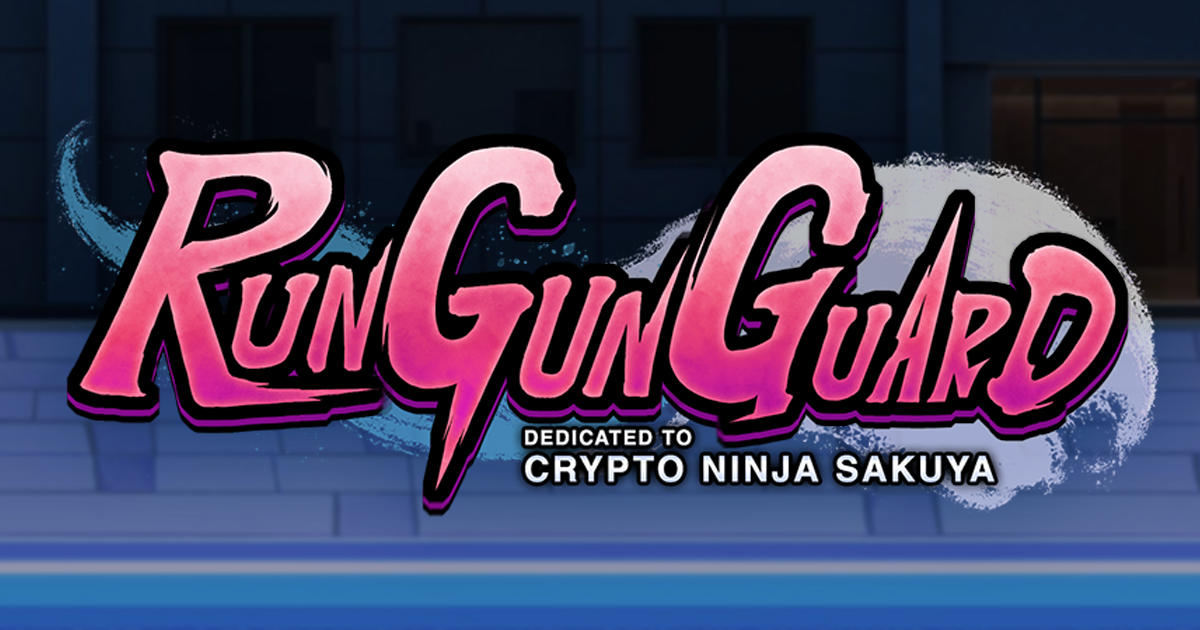
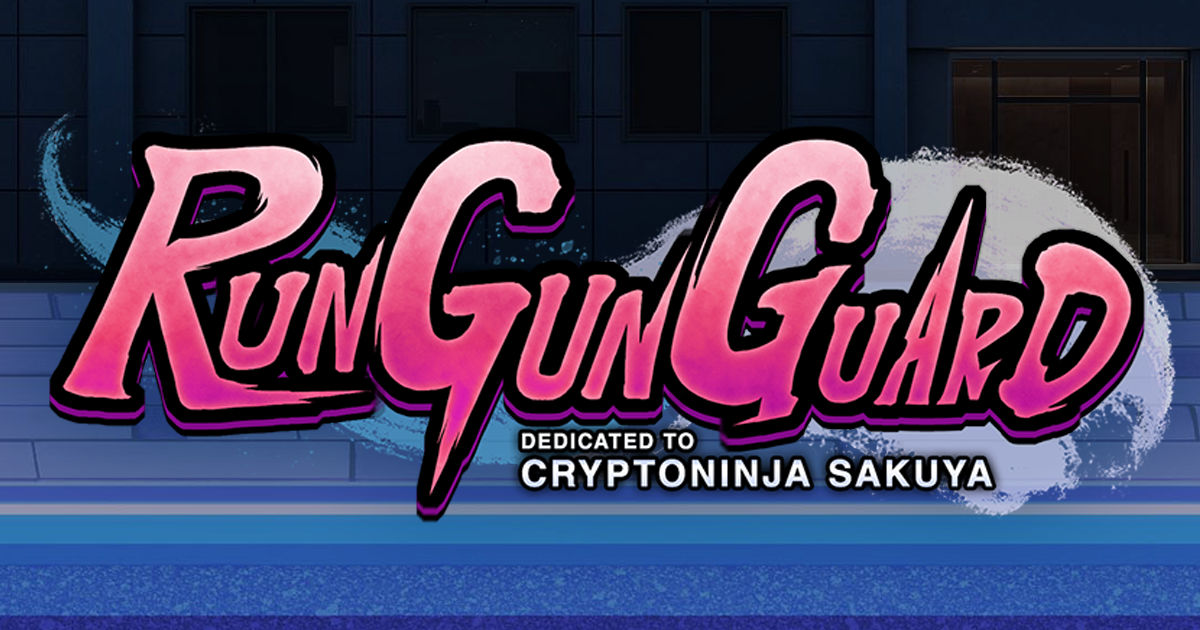
1

diff --git a/index.html b/index.html
@@ -234,11 +234,11 @@
 
                 <div class="credits-section">
                     <div class="credits-category">- SPECIAL THANKS -</div>
-                    <div class="credits-name">Original Work: CRYPTO NINJA / CRYPTO NINJA SAKUYA</div>
+                    <div class="credits-name">Original Work: CryptoNinja / CryptoNinja SAKUYA</div>
                 </div>
 
                 <div class="credits-footer">
-                    DEDICATED TO CRYPTO NINJA SAKUYA
+                    DEDICATED TO CryptoNinja SAKUYA
                 </div>
 
                 <div class="modal-btn-wrap" style="margin-top: 35px;">
